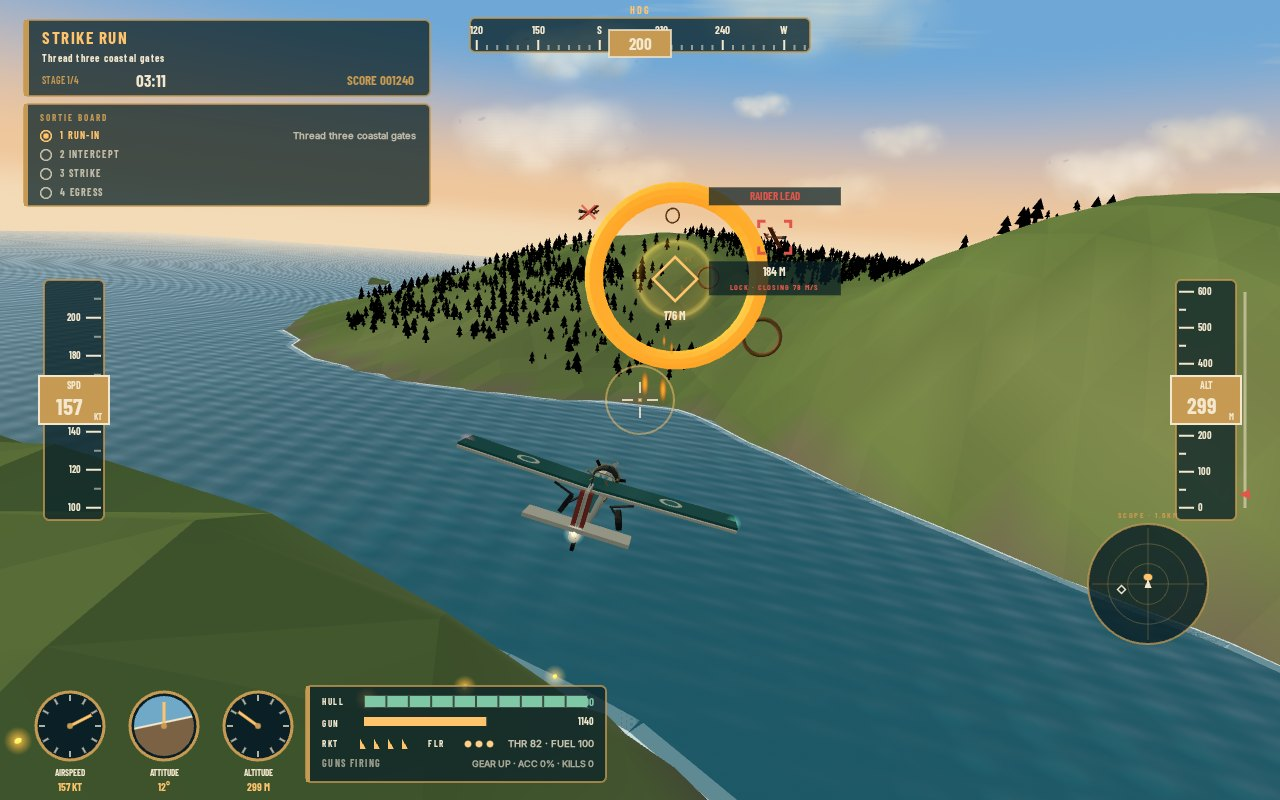
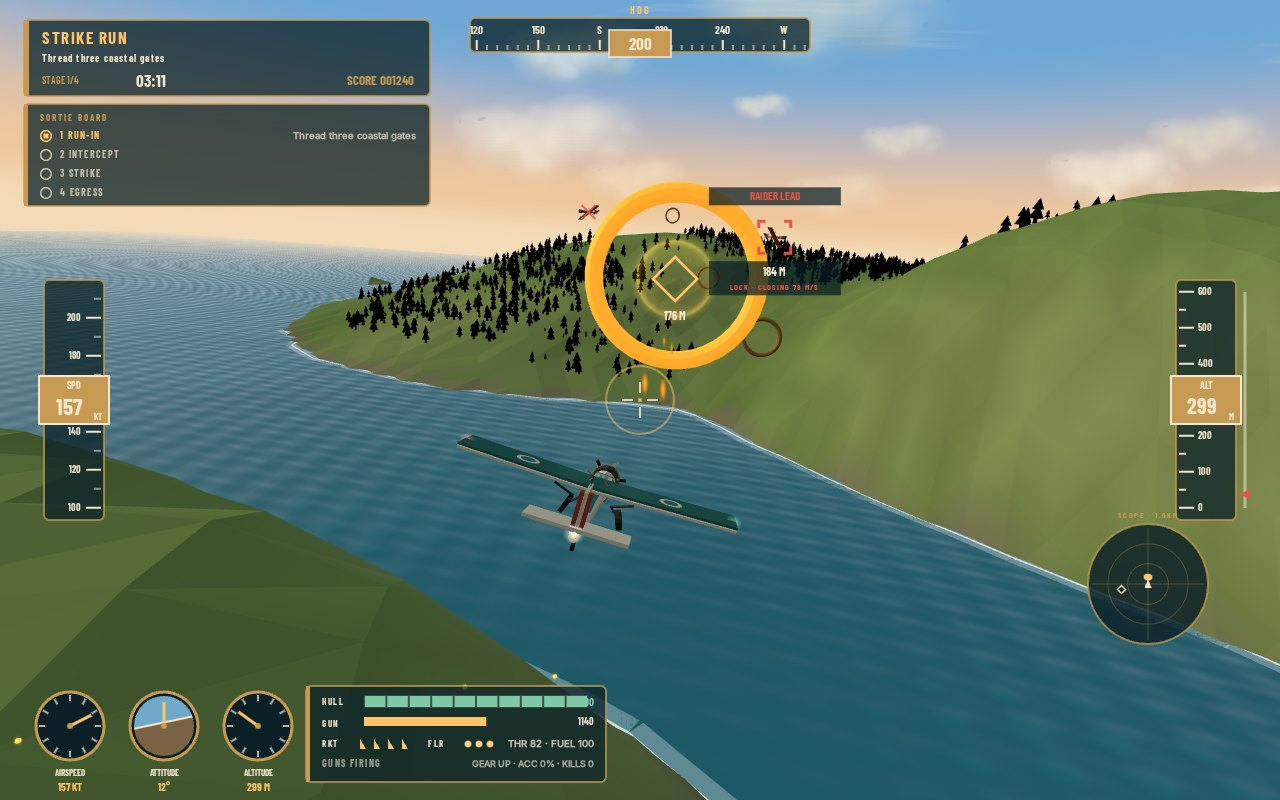
feat: finer ground mesh with mottled pasture, softer runway approach lights; renders refreshed

diff --git a/game/src/landmarks.js b/game/src/landmarks.js
@@ -76,10 +76,10 @@ function createRunway(group) {
 
 function createApproachLights(group, glowMap) {
   const lightMaterial = new THREE.MeshStandardMaterial({
-    color: '#FFD58A', emissive: '#FF9E32', emissiveIntensity: 2.2, roughness: 0.4,
+    color: '#FFD58A', emissive: '#FF9E32', emissiveIntensity: 1.6, roughness: 0.4,
   });
   const glowMaterial = new THREE.SpriteMaterial({
-    map: glowMap, color: '#FFC46B', transparent: true, opacity: 0.72,
+    map: glowMap, color: '#FFC46B', transparent: true, opacity: 0.4,
     blending: THREE.AdditiveBlending, depthWrite: false,
   });
   const lights = new THREE.InstancedMesh(new THREE.SphereGeometry(0.5, 8, 6), lightMaterial, 14);
@@ -91,7 +91,7 @@ function createApproachLights(group, glowMap) {
     lights.setMatrixAt(index, matrix);
     const glow = new THREE.Sprite(glowMaterial);
     glow.position.set(x, y, AIRFIELD.z);
-    glow.scale.set(5.5, 5.5, 1);
+    glow.scale.set(2.2, 2.2, 1);
     group.add(glow);
   }
   lights.instanceMatrix.needsUpdate = true;

diff --git a/game/src/terrain.js b/game/src/terrain.js
@@ -126,6 +126,11 @@ function terrainColour(x, z, height, slope, variation) {
   const sunSide = clamp(0.5 + (variation - 0.5) * 0.7 + (meadow - 0.5) * 0.3, 0, 1);
   colour.lerp(SUN_TINT, sunSide * 0.07);
   colour.multiplyScalar(0.93 + (variation - 0.5) * 0.1);
+  const groundTexture = fbm(x * 0.004, z * 0.004, 4, 4411);
+  const fineTexture = fbm(x * 0.02, z * 0.02, 3, 9029);
+  const textureTint = 1 + (groundTexture - 0.5) * 0.18;
+  const scrubDarkening = 1 - (1 - smoothstep(0.2, 0.5, fineTexture)) * 0.06;
+  colour.multiplyScalar(textureTint * scrubDarkening);
   return colour;
 }
 

diff --git a/game/src/config.js b/game/src/config.js
@@ -46,7 +46,7 @@ export const AIRFIELD = Object.freeze({
 });
 
 export const TERRAIN = Object.freeze({
-  size: 12000, segments: 144, seed: 1729, octaves: 4, frequency: 0.00031,
+  size: 12000, segments: 200, seed: 1729, octaves: 4, frequency: 0.00031,
   maxHeight: 780, airfieldHeight: AIRFIELD.elevation, plateauRadiusX: 980, plateauRadiusZ: 540,
   heightStep: 8, coastFoamSamples: 144,
 });
